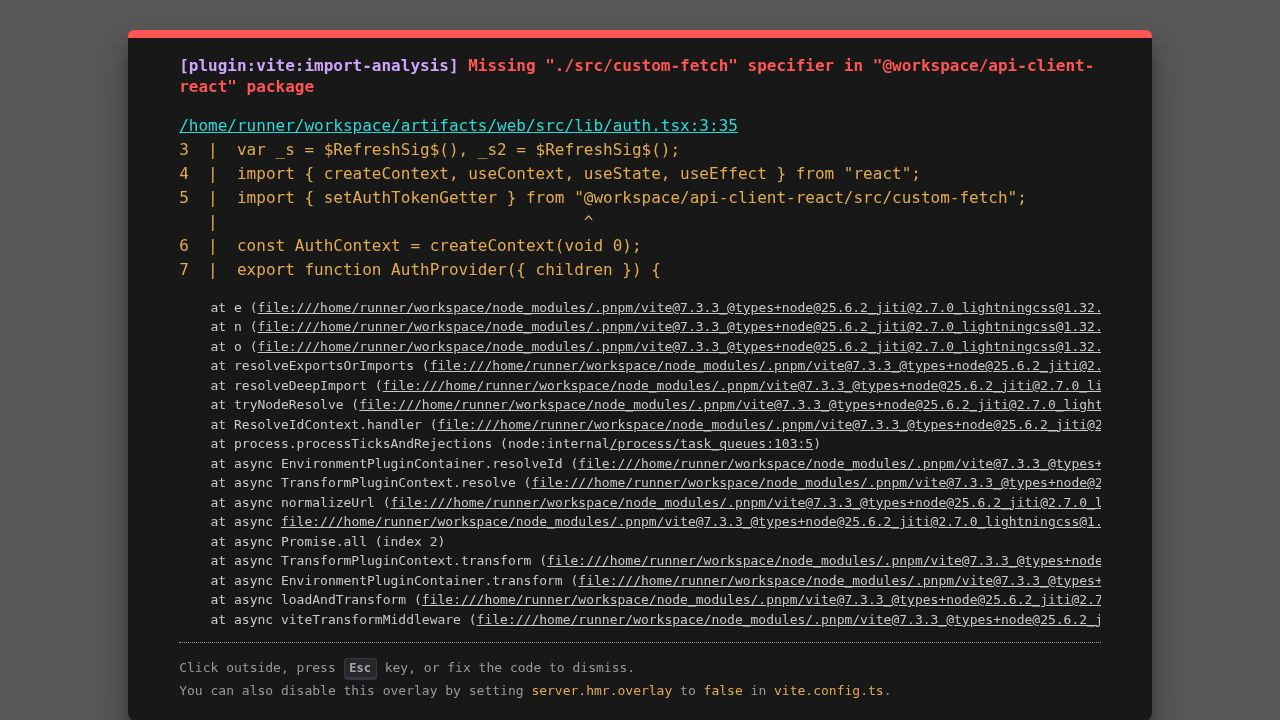
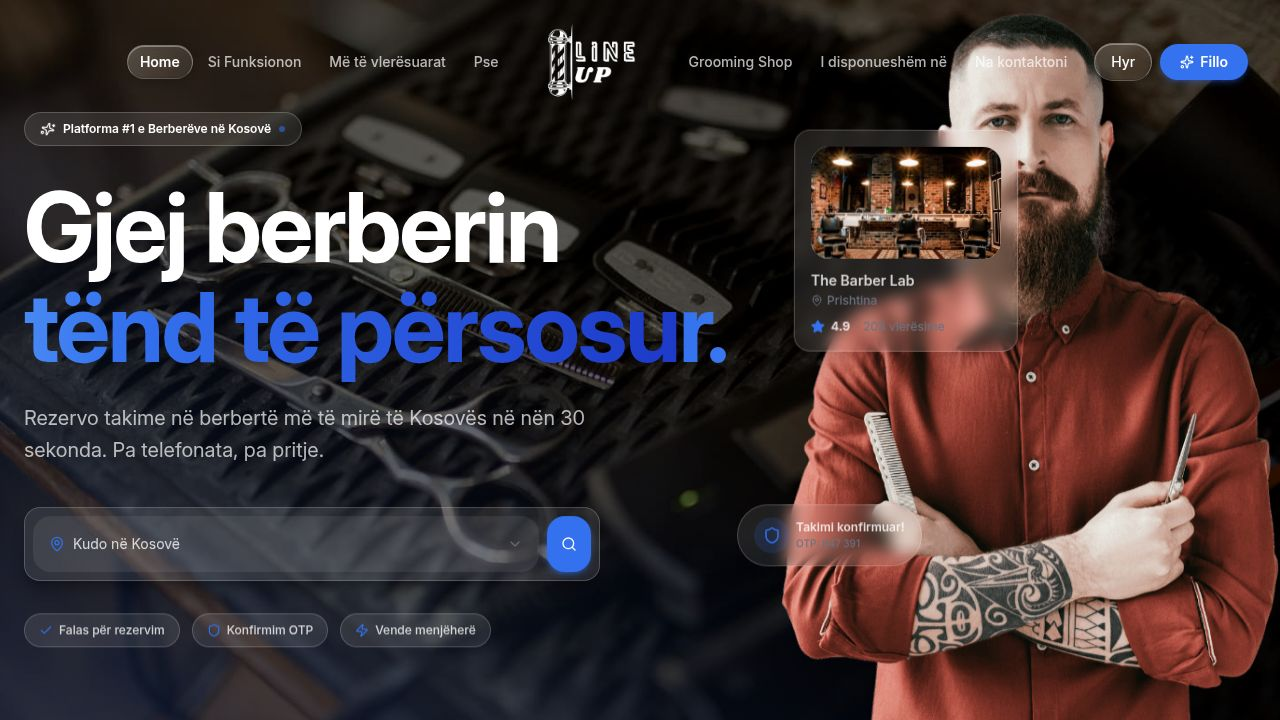
Add email notifications for appointments and user registrations
Integrates Brevo email service for sending welcome, OTP, and booking confirmation emails, and fixes a missing import in the registration page.

Replit-Commit-Author: Agent
Replit-Commit-Session-Id: d66789da-39c1-4ea9-b896-da2d0446649e
Replit-Commit-Checkpoint-Type: full_checkpoint
Replit-Commit-Event-Id: 129a07ca-27b0-4c3f-845d-5f8a30339471
Replit-Commit-Screenshot-Url: https://storage.googleapis.com/screenshot-production-us-central1/19971e6c-3395-454d-800d-380140a55036/d66789da-39c1-4ea9-b896-da2d0446649e/tlJBiFq
Replit-Helium-Checkpoint-Created: true

diff --git a/artifacts/api-server/src/lib/email.ts b/artifacts/api-server/src/lib/email.ts
@@ -1,0 +1,285 @@
+import { logger } from "./logger";
+
+const BREVO_API_KEY = process.env.BREVO_API_KEY;
+const FROM_EMAIL = "[email redacted]";
+const FROM_NAME = "TRIM Kosovo";
+
+interface SendEmailOptions {
+  to: { email: string; name: string };
+  subject: string;
+  htmlContent: string;
+}
+
+async function sendEmail(opts: SendEmailOptions): Promise<boolean> {
+  if (!BREVO_API_KEY) {
+    logger.warn("BREVO_API_KEY not set — email skipped");
+    return false;
+  }
+  try {
+    const res = await fetch("https://api.brevo.com/v3/smtp/email", {
+      method: "POST",
+      headers: {
+        "Accept": "application/json",
+        "Content-Type": "application/json",
+        "api-key": BREVO_API_KEY,
+      },
+      body: JSON.stringify({
+        sender: { name: FROM_NAME, email: FROM_EMAIL },
+        to: [opts.to],
+        subject: opts.subject,
+        htmlContent: opts.htmlContent,
+      }),
+    });
+    if (!res.ok) {
+      const err = await res.text();
+      logger.error({ status: res.status, err }, "Brevo send failed");
+      return false;
+    }
+    logger.info({ to: opts.to.email, subject: opts.subject }, "Email sent via Brevo");
+    return true;
+  } catch (err) {
+    logger.error({ err }, "Brevo request error");
+    return false;
+  }
+}
+
+/* ── Templates ──────────────────────────────────────────── */
+
+export async function sendOtpEmail(opts: {
+  to: { email: string; name: string };
+  otp: string;
+  shopName: string;
+  scheduledAt: Date;
+  serviceName: string;
+  barberName: string;
+}): Promise<boolean> {
+  const dateStr = opts.scheduledAt.toLocaleString("sq-AL", {
+    weekday: "long", year: "numeric", month: "long",
+    day: "numeric", hour: "2-digit", minute: "2-digit",
+  });
+
+  return sendEmail({
+    to: opts.to,
+    subject: `Kodi juaj OTP — ${opts.shopName}`,
+    htmlContent: `
+<!DOCTYPE html>
+<html lang="sq">
+<head><meta charset="utf-8"><meta name="viewport" content="width=device-width,initial-scale=1"></head>
+<body style="margin:0;padding:0;background:#0f1117;font-family:'Segoe UI',Arial,sans-serif;">
+  <table width="100%" cellpadding="0" cellspacing="0" style="background:#0f1117;min-height:100vh;">
+    <tr><td align="center" style="padding:40px 20px;">
+      <table width="560" cellpadding="0" cellspacing="0" style="background:#12151e;border-radius:20px;overflow:hidden;border:1px solid #1e2330;">
+        <!-- Header -->
+        <tr>
+          <td style="background:linear-gradient(135deg,#1a1e2e 0%,#12151e 100%);padding:40px 40px 30px;text-align:center;">
+            <div style="display:inline-flex;align-items:center;gap:10px;margin-bottom:8px;">
+              <div style="width:36px;height:36px;background:#e8a020;border-radius:10px;display:inline-block;line-height:36px;text-align:center;font-size:18px;">✂</div>
+              <span style="font-size:24px;font-weight:800;color:#fff;letter-spacing:-0.5px;">TRIM<span style="color:#e8a020;">.</span></span>
+            </div>
+          </td>
+        </tr>
+        <!-- OTP box -->
+        <tr>
+          <td style="padding:40px 40px 30px;">
+            <h1 style="color:#fff;font-size:22px;font-weight:700;margin:0 0 8px;">Konfirmoni rezervimin tuaj</h1>
+            <p style="color:#8892a0;font-size:15px;margin:0 0 32px;">Përshëndetje ${opts.to.name}, rezervimi juaj pret konfirmimin.</p>
+
+            <!-- Appointment details -->
+            <div style="background:#1a1e2e;border-radius:14px;padding:20px;margin-bottom:28px;border:1px solid #1e2330;">
+              <table width="100%" cellpadding="0" cellspacing="0">
+                <tr>
+                  <td style="padding:6px 0;color:#8892a0;font-size:13px;">Dyqani</td>
+                  <td style="padding:6px 0;color:#fff;font-size:13px;font-weight:600;text-align:right;">${opts.shopName}</td>
+                </tr>
+                <tr>
+                  <td style="padding:6px 0;color:#8892a0;font-size:13px;">Shërbimi</td>
+                  <td style="padding:6px 0;color:#fff;font-size:13px;font-weight:600;text-align:right;">${opts.serviceName}</td>
+                </tr>
+                <tr>
+                  <td style="padding:6px 0;color:#8892a0;font-size:13px;">Berberi</td>
+                  <td style="padding:6px 0;color:#fff;font-size:13px;font-weight:600;text-align:right;">${opts.barberName}</td>
+                </tr>
+                <tr>
+                  <td style="padding:6px 0;color:#8892a0;font-size:13px;">Data & Ora</td>
+                  <td style="padding:6px 0;color:#e8a020;font-size:13px;font-weight:600;text-align:right;">${dateStr}</td>
+                </tr>
+              </table>
+            </div>
+
+            <!-- OTP code -->
+            <p style="color:#8892a0;font-size:13px;margin:0 0 12px;text-transform:uppercase;letter-spacing:1px;font-weight:600;">Kodi juaj OTP</p>
+            <div style="text-align:center;background:#1a1e2e;border:2px solid #e8a020;border-radius:16px;padding:24px;margin-bottom:24px;">
+              <span style="font-size:48px;font-weight:900;letter-spacing:12px;color:#e8a020;font-variant-numeric:tabular-nums;">${opts.otp}</span>
+            </div>
+            <p style="color:#8892a0;font-size:13px;text-align:center;margin:0 0 28px;">Ky kod skadon pas <strong style="color:#fff;">15 minutave</strong>. Mos e ndani me askënd.</p>
+
+            <div style="background:#1a1e2e;border-radius:12px;padding:14px 16px;border-left:3px solid #e8a020;">
+              <p style="color:#8892a0;font-size:12px;margin:0;">Nëse nuk ju keni bërë këtë rezervim, inoroni këtë email.</p>
+            </div>
+          </td>
+        </tr>
+        <!-- Footer -->
+        <tr>
+          <td style="padding:20px 40px 30px;border-top:1px solid #1e2330;text-align:center;">
+            <p style="color:#4a5568;font-size:12px;margin:0;">© ${new Date().getFullYear()} TRIM Kosovo · Platforma e berbertëve premium</p>
+          </td>
+        </tr>
+      </table>
+    </td></tr>
+  </table>
+</body>
+</html>`,
+  });
+}
+
+export async function sendBookingConfirmedEmail(opts: {
+  to: { email: string; name: string };
+  shopName: string;
+  scheduledAt: Date;
+  serviceName: string;
+  barberName: string;
+  totalPrice: number;
+}): Promise<boolean> {
+  const dateStr = opts.scheduledAt.toLocaleString("sq-AL", {
+    weekday: "long", year: "numeric", month: "long",
+    day: "numeric", hour: "2-digit", minute: "2-digit",
+  });
+
+  return sendEmail({
+    to: opts.to,
+    subject: `✅ Rezervimi konfirmuar — ${opts.shopName}`,
+    htmlContent: `
+<!DOCTYPE html>
+<html lang="sq">
+<head><meta charset="utf-8"><meta name="viewport" content="width=device-width,initial-scale=1"></head>
+<body style="margin:0;padding:0;background:#0f1117;font-family:'Segoe UI',Arial,sans-serif;">
+  <table width="100%" cellpadding="0" cellspacing="0" style="background:#0f1117;min-height:100vh;">
+    <tr><td align="center" style="padding:40px 20px;">
+      <table width="560" cellpadding="0" cellspacing="0" style="background:#12151e;border-radius:20px;overflow:hidden;border:1px solid #1e2330;">
+        <tr>
+          <td style="background:linear-gradient(135deg,#1a1e2e 0%,#12151e 100%);padding:40px;text-align:center;">
+            <div style="width:60px;height:60px;background:#16a34a;border-radius:50%;display:inline-flex;align-items:center;justify-content:center;font-size:28px;margin-bottom:16px;">✓</div>
+            <h1 style="color:#fff;font-size:24px;font-weight:800;margin:0 0 8px;">Rezervimi u konfirmua!</h1>
+            <p style="color:#8892a0;font-size:15px;margin:0;">Shihemi, ${opts.to.name}!</p>
+          </td>
+        </tr>
+        <tr>
+          <td style="padding:40px;">
+            <div style="background:#1a1e2e;border-radius:14px;padding:24px;border:1px solid #1e2330;">
+              <table width="100%" cellpadding="0" cellspacing="0">
+                <tr>
+                  <td style="padding:8px 0;color:#8892a0;font-size:14px;">📍 Dyqani</td>
+                  <td style="padding:8px 0;color:#fff;font-size:14px;font-weight:700;text-align:right;">${opts.shopName}</td>
+                </tr>
+                <tr>
+                  <td style="padding:8px 0;color:#8892a0;font-size:14px;">✂️ Shërbimi</td>
+                  <td style="padding:8px 0;color:#fff;font-size:14px;font-weight:600;text-align:right;">${opts.serviceName}</td>
+                </tr>
+                <tr>
+                  <td style="padding:8px 0;color:#8892a0;font-size:14px;">👤 Berberi</td>
+                  <td style="padding:8px 0;color:#fff;font-size:14px;font-weight:600;text-align:right;">${opts.barberName}</td>
+                </tr>
+                <tr>
+                  <td style="padding:8px 0;color:#8892a0;font-size:14px;">🗓️ Data & Ora</td>
+                  <td style="padding:8px 0;color:#e8a020;font-size:14px;font-weight:700;text-align:right;">${dateStr}</td>
+                </tr>
+                <tr>
+                  <td colspan="2" style="padding-top:16px;border-top:1px solid #1e2330;"></td>
+                </tr>
+                <tr>
+                  <td style="padding:4px 0;color:#8892a0;font-size:14px;">💳 Çmimi total</td>
+                  <td style="padding:4px 0;color:#e8a020;font-size:18px;font-weight:800;text-align:right;">${opts.totalPrice.toFixed(2)}€</td>
+                </tr>
+              </table>
+            </div>
+            <p style="color:#8892a0;font-size:13px;text-align:center;margin:24px 0 0;">Faleminderit që zgjodhët <strong style="color:#fff;">TRIM Kosovo</strong>.</p>
+          </td>
+        </tr>
+        <tr>
+          <td style="padding:20px 40px 30px;border-top:1px solid #1e2330;text-align:center;">
+            <p style="color:#4a5568;font-size:12px;margin:0;">© ${new Date().getFullYear()} TRIM Kosovo · Platforma e berbertëve premium</p>
+          </td>
+        </tr>
+      </table>
+    </td></tr>
+  </table>
+</body>
+</html>`,
+  });
+}
+
+export async function sendWelcomeEmail(opts: {
+  to: { email: string; name: string };
+  role: string;
+}): Promise<boolean> {
+  const isOwner = opts.role === "owner";
+  return sendEmail({
+    to: opts.to,
+    subject: `Mirë se vini te TRIM Kosovo! 🎉`,
+    htmlContent: `
+<!DOCTYPE html>
+<html lang="sq">
+<head><meta charset="utf-8"><meta name="viewport" content="width=device-width,initial-scale=1"></head>
+<body style="margin:0;padding:0;background:#0f1117;font-family:'Segoe UI',Arial,sans-serif;">
+  <table width="100%" cellpadding="0" cellspacing="0" style="background:#0f1117;min-height:100vh;">
+    <tr><td align="center" style="padding:40px 20px;">
+      <table width="560" cellpadding="0" cellspacing="0" style="background:#12151e;border-radius:20px;overflow:hidden;border:1px solid #1e2330;">
+        <tr>
+          <td style="background:linear-gradient(135deg,#1a1e2e 0%,#0f1117 100%);padding:48px 40px;text-align:center;">
+            <div style="display:inline-block;margin-bottom:20px;">
+              <div style="width:44px;height:44px;background:#e8a020;border-radius:12px;display:inline-block;line-height:44px;text-align:center;font-size:22px;">✂</div>
+              <span style="font-size:28px;font-weight:900;color:#fff;letter-spacing:-1px;vertical-align:middle;margin-left:10px;">TRIM<span style="color:#e8a020;">.</span></span>
+            </div>
+            <h1 style="color:#fff;font-size:28px;font-weight:800;margin:0 0 10px;line-height:1.2;">
+              ${isOwner ? "Mirë se vini, Partner! 🤝" : "Mirë se vini, " + opts.to.name.split(" ")[0] + "! 👋"}
+            </h1>
+            <p style="color:#8892a0;font-size:16px;margin:0;">
+              ${isOwner ? "Llogaria juaj e pronarit u krijua me sukses." : "Llogaria juaj u krijua me sukses."}
+            </p>
+          </td>
+        </tr>
+        <tr>
+          <td style="padding:40px;">
+            ${isOwner ? `
+            <h2 style="color:#fff;font-size:18px;font-weight:700;margin:0 0 20px;">Si të filloni:</h2>
+            <div style="background:#1a1e2e;border-radius:14px;padding:20px;margin-bottom:16px;border:1px solid #1e2330;display:flex;align-items:flex-start;gap:16px;">
+              <div style="width:32px;height:32px;background:#e8a020;border-radius:8px;flex-shrink:0;text-align:center;line-height:32px;font-weight:800;color:#0f1117;">1</div>
+              <div><p style="color:#fff;font-size:14px;font-weight:600;margin:0 0 4px;">Shtoni sallon tuaj</p><p style="color:#8892a0;font-size:13px;margin:0;">Shkoni te Dashboard dhe plotësoni profilin e sallonit.</p></div>
+            </div>
+            <div style="background:#1a1e2e;border-radius:14px;padding:20px;margin-bottom:16px;border:1px solid #1e2330;display:flex;align-items:flex-start;gap:16px;">
+              <div style="width:32px;height:32px;background:#e8a020;border-radius:8px;flex-shrink:0;text-align:center;line-height:32px;font-weight:800;color:#0f1117;">2</div>
+              <div><p style="color:#fff;font-size:14px;font-weight:600;margin:0 0 4px;">Shtoni berberët dhe shërbimet</p><p style="color:#8892a0;font-size:13px;margin:0;">Menaxhoni ekipin dhe çmimet tuaja.</p></div>
+            </div>
+            <div style="background:#1a1e2e;border-radius:14px;padding:20px;margin-bottom:24px;border:1px solid #1e2330;display:flex;align-items:flex-start;gap:16px;">
+              <div style="width:32px;height:32px;background:#e8a020;border-radius:8px;flex-shrink:0;text-align:center;line-height:32px;font-weight:800;color:#0f1117;">3</div>
+              <div><p style="color:#fff;font-size:14px;font-weight:600;margin:0 0 4px;">Prisni rezervimet!</p><p style="color:#8892a0;font-size:13px;margin:0;">Klientët do t'ju gjejnë dhe rezervojnë online.</p></div>
+            </div>
+            ` : `
+            <p style="color:#8892a0;font-size:15px;line-height:1.6;margin:0 0 28px;">
+              Tani mund të gjeni dhe rezervoni te berberët më të mirë të Kosovës — pa pritje, pa telefonata.
+            </p>
+            <div style="background:#1a1e2e;border-radius:14px;padding:20px;margin-bottom:24px;border:1px solid #1e2330;">
+              <p style="color:#fff;font-size:14px;font-weight:700;margin:0 0 12px;">Çfarë mund të bëni:</p>
+              <p style="color:#8892a0;font-size:13px;margin:0 0 8px;">✅ Rezervoni termin në 30 sekonda</p>
+              <p style="color:#8892a0;font-size:13px;margin:0 0 8px;">✅ Konfirmoni me OTP të sigurt</p>
+              <p style="color:#8892a0;font-size:13px;margin:0 0 8px;">✅ Blini produkte grooming premium</p>
+              <p style="color:#8892a0;font-size:13px;margin:0;">✅ Menaxhoni të gjitha terminet tuaja</p>
+            </div>
+            `}
+            <div style="text-align:center;">
+              <p style="color:#4a5568;font-size:12px;margin:0;">Nëse keni pyetje, na kontaktoni në <a href="mailto:[email redacted]" style="color:#e8a020;text-decoration:none;">[email redacted]</a></p>
+            </div>
+          </td>
+        </tr>
+        <tr>
+          <td style="padding:20px 40px 30px;border-top:1px solid #1e2330;text-align:center;">
+            <p style="color:#4a5568;font-size:12px;margin:0;">© ${new Date().getFullYear()} TRIM Kosovo · Platforma e berbertëve premium</p>
+          </td>
+        </tr>
+      </table>
+    </td></tr>
+  </table>
+</body>
+</html>`,
+  });
+}

diff --git a/artifacts/api-server/src/routes/appointments.ts b/artifacts/api-server/src/routes/appointments.ts
@@ -5,6 +5,7 @@ import {
 } from "@workspace/db";
 import { eq, and, sql, gte, lte, desc } from "drizzle-orm";
 import { requireAuth, generateOtp, type AuthRequest } from "../lib/auth";
+import { sendOtpEmail, sendBookingConfirmedEmail } from "../lib/email";
 
 const router = Router();
 
@@ -95,6 +96,22 @@ router.post("/appointments", requireAuth, async (req: AuthRequest, res): Promise
   });
 
   req.log.info({ appointmentId: appt.id, otp }, "Appointment booked, OTP generated");
+
+  // Send OTP email (fire-and-forget)
+  const [userRow] = await db.select().from(usersTable).where(eq(usersTable.id, req.user!.id));
+  const [shopRow] = await db.select().from(barbershopsTable).where(eq(barbershopsTable.id, shopId));
+  const [barberRow] = await db.select().from(barbersTable).where(eq(barbersTable.id, barberId));
+  if (userRow && shopRow && barberRow) {
+    sendOtpEmail({
+      to: { email: userRow.email, name: userRow.name },
+      otp,
+      shopName: shopRow.name,
+      scheduledAt: appt.scheduledAt,
+      serviceName: service.name,
+      barberName: barberRow.name,
+    }).catch(() => {});
+  }
+
   res.status(201).json(formatAppointment(appt));
 });
 
@@ -157,6 +174,23 @@ router.post("/appointments/:id/confirm-otp", requireAuth, async (req: AuthReques
     .set({ status: "confirmed", otpCode: null, otpExpiresAt: null })
     .where(eq(appointmentsTable.id, id)).returning();
   await db.insert(activityLogTable).values({ type: "appointment_confirmed", description: "Appointment confirmed", userId: appt.userId, shopId: appt.shopId });
+
+  // Send booking confirmed email (fire-and-forget)
+  const [confUser] = await db.select().from(usersTable).where(eq(usersTable.id, appt.userId));
+  const [confShop] = await db.select().from(barbershopsTable).where(eq(barbershopsTable.id, appt.shopId));
+  const [confBarber] = await db.select().from(barbersTable).where(eq(barbersTable.id, appt.barberId));
+  const [confService] = await db.select().from(servicesTable).where(eq(servicesTable.id, appt.serviceId));
+  if (confUser && confShop && confBarber && confService) {
+    sendBookingConfirmedEmail({
+      to: { email: confUser.email, name: confUser.name },
+      shopName: confShop.name,
+      scheduledAt: appt.scheduledAt,
+      serviceName: confService.name,
+      barberName: confBarber.name,
+      totalPrice: appt.totalPrice ? parseFloat(appt.totalPrice as string) : 0,
+    }).catch(() => {});
+  }
+
   res.json(formatAppointment(updated));
 });
 

diff --git a/artifacts/api-server/src/routes/auth.ts b/artifacts/api-server/src/routes/auth.ts
@@ -3,6 +3,7 @@ import { db, usersTable } from "@workspace/db";
 import { eq } from "drizzle-orm";
 import { generateToken, hashPassword, comparePassword, requireAuth, type AuthRequest } from "../lib/auth";
 import { logger } from "../lib/logger";
+import { sendWelcomeEmail } from "../lib/email";
 
 const router = Router();
 
@@ -27,6 +28,10 @@ router.post("/auth/register", async (req, res): Promise<void> => {
   }).returning();
   const token = generateToken({ id: user.id, email: user.email, role: user.role });
   req.log.info({ userId: user.id }, "User registered");
+
+  // Send welcome email (fire-and-forget)
+  sendWelcomeEmail({ to: { email: user.email, name: user.name }, role: user.role }).catch(() => {});
+
   res.status(201).json({
     token,
     user: {

diff --git a/artifacts/web/src/pages/auth/Register.tsx b/artifacts/web/src/pages/auth/Register.tsx
@@ -28,6 +28,7 @@ import {
   CreditCard,
   Plus,
   Trash2,
+  Scissors,
 } from "lucide-react";
 import logoImg from "@assets/LINE_(2)_1782421072087.png";
 